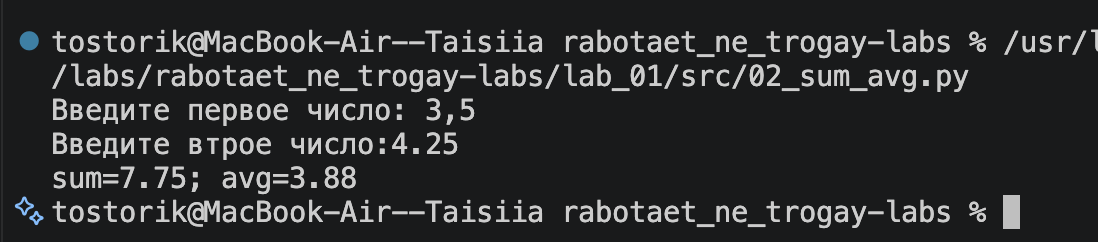
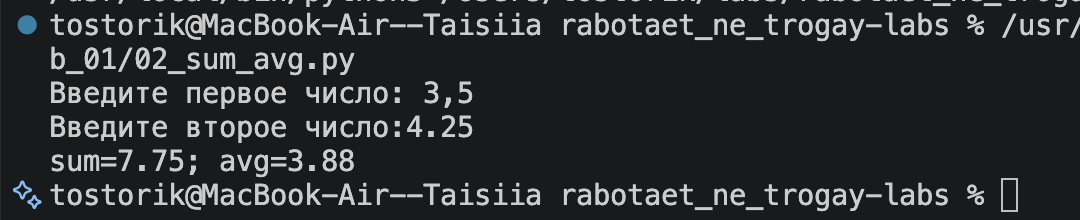
end

diff --git a/src/lab_01/README.md b/src/lab_01/README.md
@@ -9,38 +9,40 @@
 #### Возраст: 19
 
 ![](../../img/lab01/ex01.png)
+##### Рис.1 Иллюстрация работы программы(01_greeting)
 
 ## Задание 2
 
 ### Входные данные:
 #### Первое число: 3,5
 #### Второе число: 4.25 
-![](img/ex02.png)
-<img width="1098" height="242" alt="image" src="https://github.com/user-attachments/assets/ab0bd95c-f646-466a-b69e-be9370dc4dd3" />
 
+![](../../img/lab01/ex02.png)
+##### Рис.2 Иллюстрация работы программы(02_sum_avg)
 
 ## Задание 3
 
 ### Входные данные:
 #### price=1000, discount=10, vat=20
-![](img/ex03.png)
-<img width="1098" height="320" alt="image" src="https://github.com/user-attachments/assets/c06f0f81-77d5-405f-b169-0dabd09ee832" />
 
+![](../../img/lab01/ex03.png)
+##### Рис.3 Иллюстрация работы программы(03_discount_vat)
 
 ## Задание 4
 
 #### Входные данные:
 #### Минуты: 135
-![](img/ex04.png)
-<img width="1098" height="228" alt="image" src="https://github.com/user-attachments/assets/e9885d97-923c-4c6a-9b35-395eb042d366" />
 
+![](../../img/lab01/ex04.png)
+##### Рис.4 Иллюстрация работы программы(04_minutes_to_hhmm)
 
 ## Задание 5
 
 ### Входные данные:
 #### ФИО:   Иванов   Иван   Иванович
-![](img/ex05.png)
-<img width="1098" height="268" alt="image" src="https://github.com/user-attachments/assets/cc9e58d2-dc35-42f2-b955-d675fee329ad" />
+
+![](../../img/lab01/ex05.png)
+##### Рис.5 Иллюстрация работы программы(05_initials_and_len)
 
 
 ## Задание 6
@@ -50,8 +52,9 @@
 #### Максимов Максим 18 True
 #### Геннадьев Геннадий 17 False
 #### Алексеев Алексей 17 True
-![](img/ex06.png)
-<img width="1560" height="338" alt="image" src="https://github.com/user-attachments/assets/b3863711-d200-47e8-a7f4-86e720f6a7b9" />
+
+![](../../img/lab01/ex06.png)
+##### Рис.6 Иллюстрация работы программы(06ex)
 
 
 
@@ -59,8 +62,9 @@
 
 ### Входные данные:
 #### thisisabracadabraHt1eadljjl12ojh.
-![](img/ex07.png)
-<img width="1082" height="190" alt="image" src="https://github.com/user-attachments/assets/0ae1a79e-2c06-4776-b20c-7a06909495cd" />
+
+![](../../img/lab01/ex07.png)
+##### Рис.7 Иллюстрация работы программы(07ex)
 
 
 
